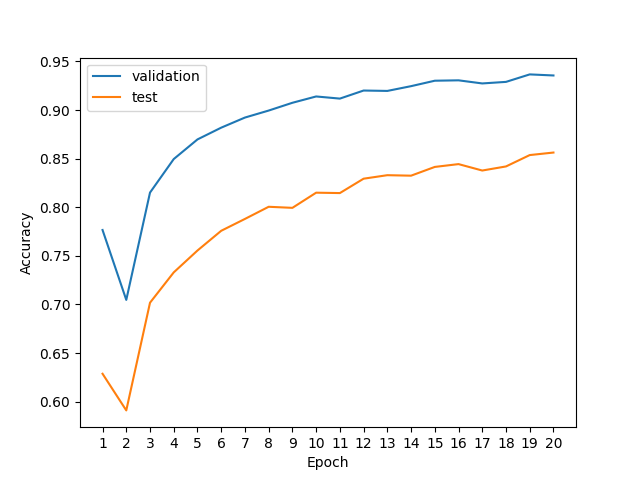
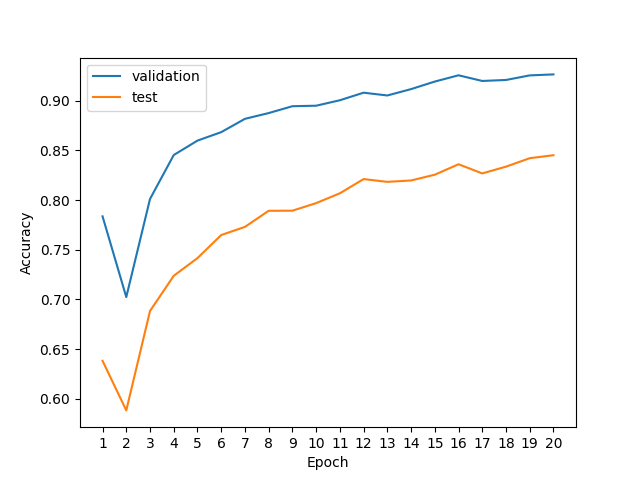
'duarte'

diff --git a/Homework_1/hw1-q1_duarte.py b/Homework_1/hw1-q1_duarte.py
@@ -100,8 +100,8 @@ class MLP(object):
         # Compute the forward pass of the network. At prediction time, there is
         # no need to save the values of hidden nodes, whereas this is required
         # at training time.
-        scores = np.dot(self.W[1], np.maximum(np.zeros((self.hidden_size, np.shape(X)[0])), np.dot(self.W[0], X.T) + self.biases[0])) + self.biases[1]
-        pred_labels = scores.argmax(axis=0) 
+        scores = np.dot(self.W[1], np.maximum(0, np.dot(self.W[0], X.T) + self.biases[0])) + self.biases[1] 
+        pred_labels = scores.argmax(axis=0)  
         return pred_labels
 
     def evaluate(self, X, y):
@@ -118,23 +118,23 @@ class MLP(object):
 
     def train_epoch(self, X, y, learning_rate=0.001):
         for x_i, y_i in zip(X, y):
-            self.update_weight(x_i, y_i, learning_rate)
+            self.update_weight(x_i, y_i, learning_rate) 
 
     def update_weight(self, x_i, y_i, learning_rate):
-        hidden_nodes_s = np.array([np.dot(self.W[0], x_i)])
-        g_prime = np.minimum(np.ones(np.shape(hidden_nodes_s.T)), np.maximum(np.zeros(np.shape(hidden_nodes_s.T)), hidden_nodes_s.T)) # ReLU derivatives of hidden layer 
-        hidden_nodes_z = np.maximum(np.zeros((self.hidden_size, 1)), hidden_nodes_s.T + self.biases[0])
-        last_nodes_s = np.dot(self.W[1], hidden_nodes_z)
-        y_pred = self.softmax(last_nodes_s + self.biases[1])
-        y_true = np.zeros((self.n_classes,1))
-        y_true[y_i] = 1
-        d_Loss = y_pred - y_true
-        self.biases[1] -= learning_rate * d_Loss
-        aux_var = learning_rate * np.dot(self.W[1].T, d_Loss) * g_prime
-        self.biases[0] -= aux_var
-        self.W[0] -= aux_var * x_i
-        self.W[1] -= learning_rate * d_Loss * hidden_nodes_z.T 
-        # print(self.W[1])
+        hidden_nodes_s = np.array([np.dot(self.W[0], x_i)]) # hidden layer
+        hidden_nodes_z = np.maximum(0, hidden_nodes_s.T + self.biases[0]) # ReLU of hidden layer
+        last_nodes_s = np.dot(self.W[1], hidden_nodes_z) # output layer
+        y_pred = self.softmax(last_nodes_s + self.biases[1]) # softmax of output layer
+        y_true = np.zeros((self.n_classes,1)) # gold labels
+        y_true[y_i] = 1     
+        ReLU_prime = np.where(hidden_nodes_s.T > 0, 1, 0) # ReLU derivatives of hidden layer
+        d_Loss = y_pred - y_true # loss derivative
+        self.biases[1] -= learning_rate * d_Loss # update biases of output layer
+        aux_var = learning_rate * np.dot(self.W[1].T, d_Loss) * ReLU_prime # auxiliar variable
+        self.biases[0] -= aux_var # update biases of hidden layer
+        self.W[0] -= aux_var * x_i # update weights of hidden layer
+        self.W[1] -= learning_rate * d_Loss * hidden_nodes_z.T  # update weights of output layer
+
 
 
     def softmax(self, x):

diff --git a/Homework_1/hw1-q1.py b/Homework_1/hw1-q1.py
@@ -140,7 +140,7 @@ class MLP(object):
             self.bias2 = self.bias2 - learning_rate * db2
             self.weights1 = self.weights1 - learning_rate * dw1
             self.bias1 = self.bias1 - learning_rate * db1
-        return
+        
 
 
     
